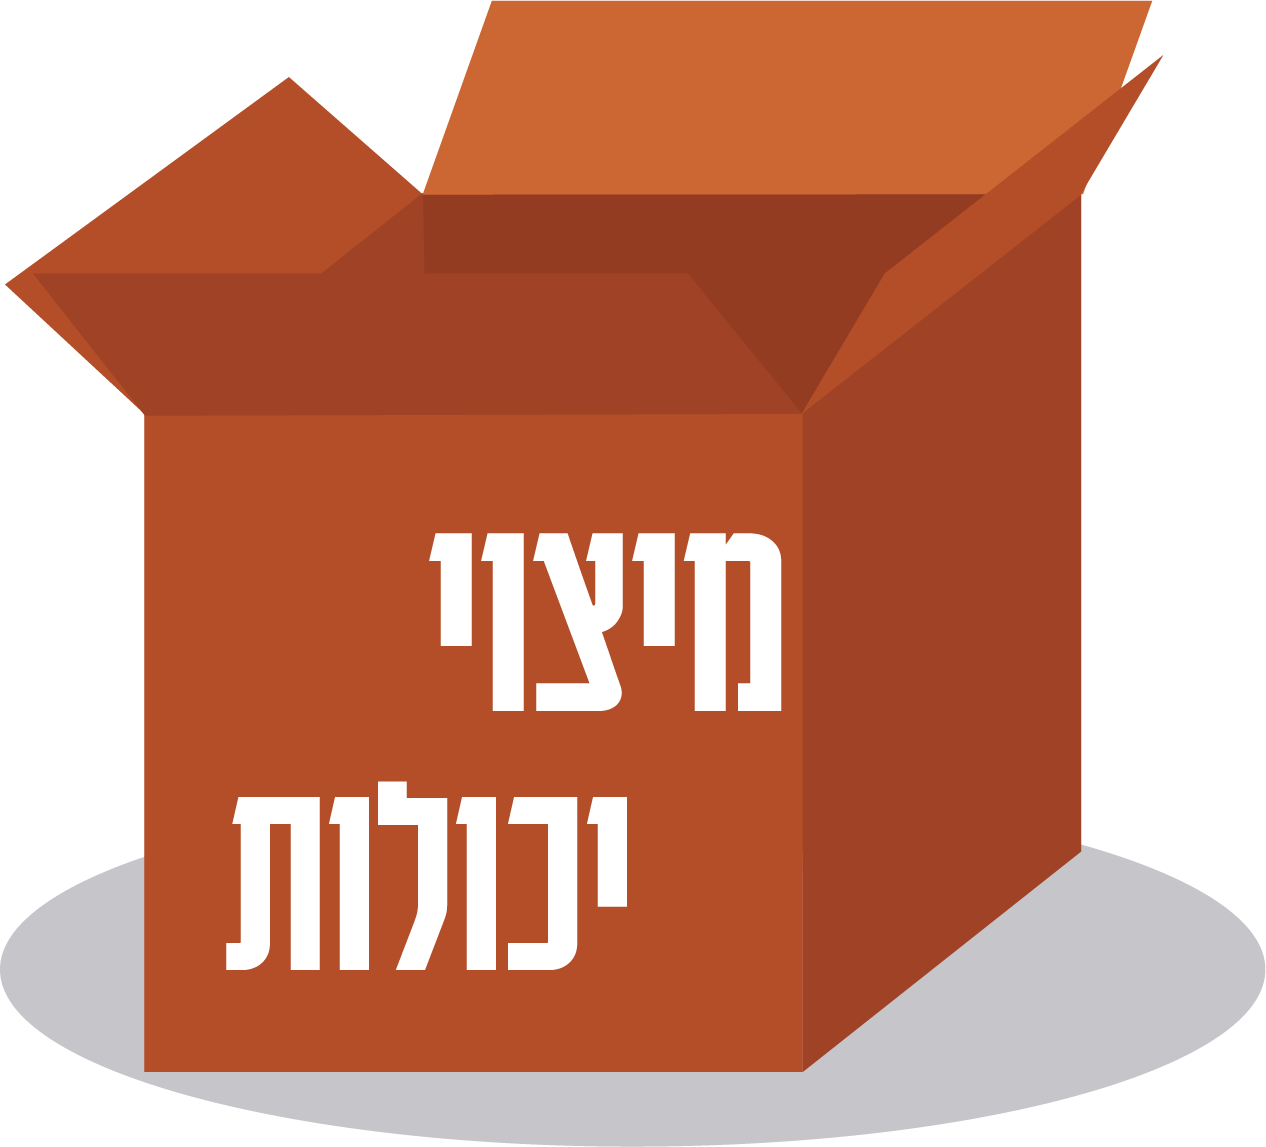
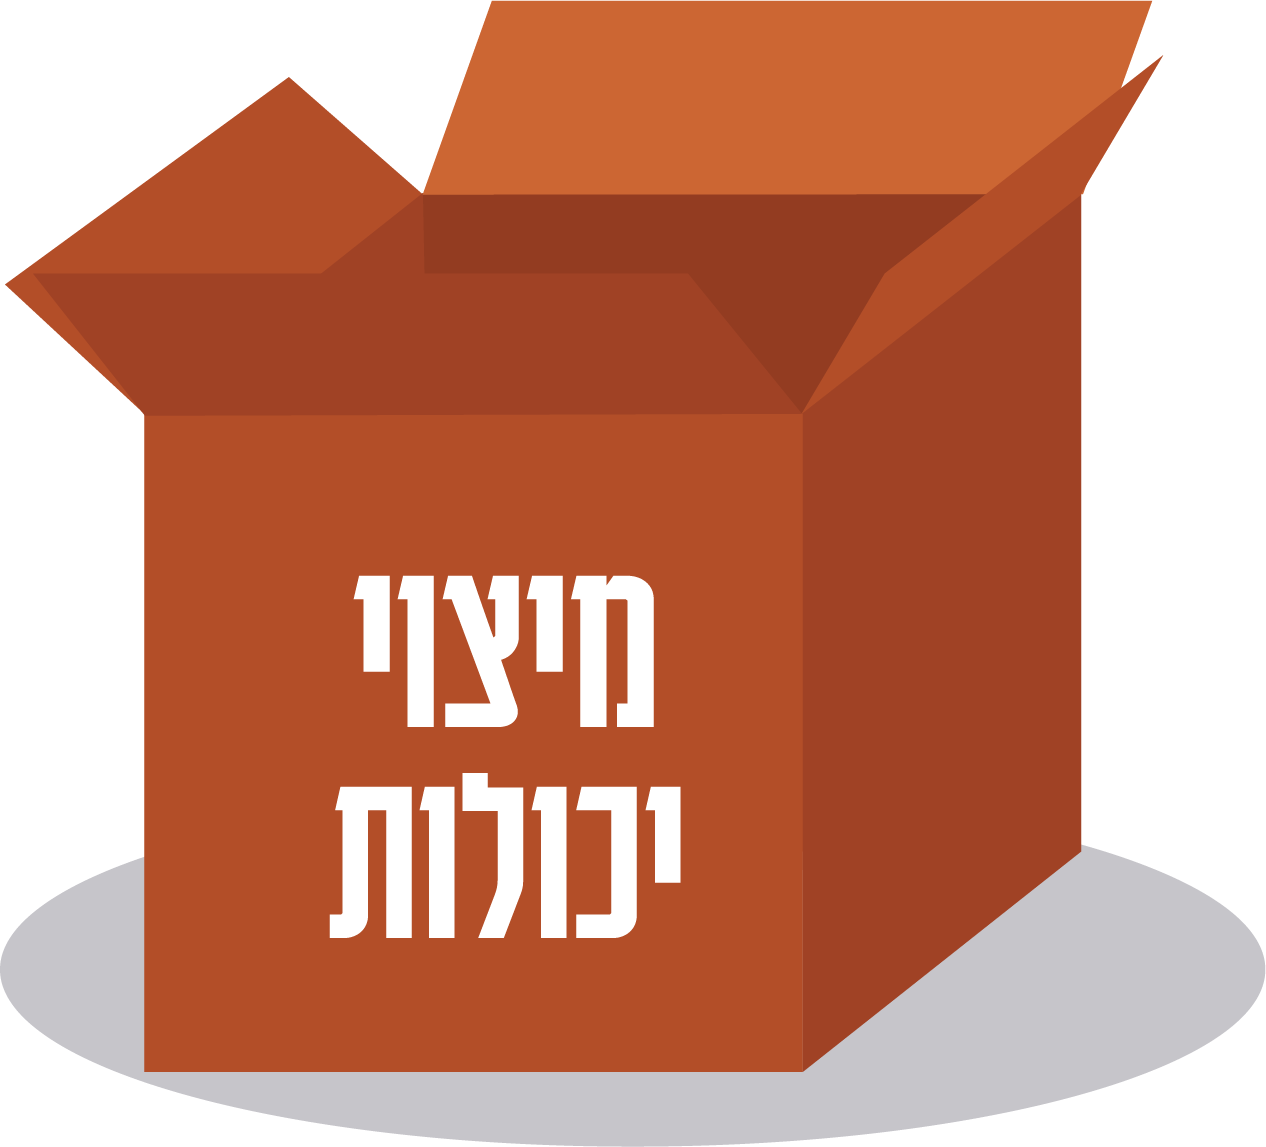
שינוי קופסאות+ קישור

Changed region(s): [[0.154, 0.6713, 0.5545, 0.8544], [0.2773, 0.4577, 0.6161, 0.6408]]

diff --git a/src/componentsCss/Home.css b/src/componentsCss/Home.css
@@ -13,7 +13,7 @@
     }
 
     .title {
-       position: absolute;
+        position: absolute;
         right: 50%;
         transform: translateX(50%);
         font-family: 'Karantina';
@@ -51,7 +51,7 @@
 
     .boxContainer {
         margin-bottom: 6vh;
-    margin-left: 2vw;
+        margin-left: 2vw;
     }
 
     .boxClose {
@@ -59,9 +59,10 @@
         height: auto;
     }
 
-      .boxOpen{
-     width: 36vw;
+    .boxOpen {
+        width: 40vw;
         height: auto;
+        margin-top: -2vh;
     }
 
     .flexBox-boxes img:nth-child(1),
@@ -79,25 +80,10 @@
         position: absolute;
         right: 50%;
         transform: translateX(50%);
-        margin-top: 113vh;
+        margin-top: 118vh;
         height: auto;
-        width: 88vw;
+        width: 80vw;
     }
-
-  
-
-    .SboxText {
-        right: 50%;
-        transform: translateX(50%);
-        margin-top: 125.3vh;
-        margin-right: 2vh;
-        font-family: 'Karantina';
-        position: absolute;
-        color: white;
-        font-size: 9vw;
-        text-align: center;
-    }
-
 
     .marginBottom {
         position: absolute;
@@ -165,15 +151,16 @@
     }
 
     .boxClose {
-        width: 15vw;
+        width: 14vw;
         height: auto;
         cursor: pointer;
     }
 
-     .boxOpen{
-     width: 13vw;
+    .boxOpen {
+        width: 13vw;
         height: auto;
-                cursor: pointer;
+        cursor: pointer;
+        margin-top: -2vh;
 
     }
 
@@ -185,22 +172,9 @@
         position: absolute;
         right: 50%;
         transform: translateX(50%);
-        margin-top: 70vh;
+        margin-top: 76vh;
         height: auto;
-        width: 28vw;
-        cursor: pointer;
-    }
-
-    .SboxText {
-        right: 50%;
-        transform: translateX(50%);
-        margin-top: 82vh;
-        margin-right: 2vh;
-        font-family: 'Karantina';
-        position: absolute;
-        color: white;
-        font-size: 3vw;
-        text-align: center;
+        width: 25vw;
         cursor: pointer;
     }
 

diff --git a/src/componentsCss/PopUp.css b/src/componentsCss/PopUp.css
@@ -1,6 +1,6 @@
 /* Mobile */
 @media screen and (max-width: 768px) {
-.popup-overlay {
+  .popup-overlay {
     background: #000000b3;
     height: 100vh;
     left: 0;
@@ -9,9 +9,9 @@
     width: 100vw;
     z-index: 2000;
   }
-  
+
   .popup-content {
-    background:#e2d4c8;
+    background: #e2d4c8;
     border-radius: 12vw;
     height: 74vh;
     overflow-y: auto;
@@ -22,7 +22,7 @@
     width: 80vw;
     overflow: hidden;
   }
-  
+
   .XBtn {
     position: absolute;
     top: 5vw;
@@ -31,24 +31,24 @@
     border: none;
     width: 8vw;
   }
-  
+
   .popup-close-button {
     border: none;
     background-color: transparent;
   }
-  
+
   .popup-title {
     font-family: 'Karantina';
     font-weight: normal;
     color: black;
     font-size: 15vw;
-    margin-bottom: 7vw;
-    margin-top: 1vw;
+    margin-bottom: 3vw;
+    margin-top: 8vw;
     margin-left: 4vw;
     margin-right: 4vw;
     text-align: center;
   }
-  
+
   .popup-body {
     font-size: 4.5vw;
     direction: ltr;
@@ -59,10 +59,10 @@
     margin-bottom: 1vh;
     overflow: auto;
     width: 74.5vw;
-    color: #5d5b5b;
+    color: #4f4e4e;
     line-height: 4vh;
   }
-  
+
   .popup-body-text {
     direction: rtl;
   }
@@ -82,7 +82,7 @@
   }
 
   .popup-content {
-    background:#e2d4c8;
+    background: #e2d4c8;
     border-radius: 12vw;
     height: 74vh;
     overflow-y: auto;
@@ -132,17 +132,17 @@
   }
 
   .popup-body {
-         font-size: 1.5vw;
-        direction: ltr;
-        margin-right: 10.5vh;
-        text-align: right;
-        margin-left: 0.5vh;
-        height: 40vh;
-        margin-bottom: 1vh;
-        overflow: auto;
-        width: 53.5vw;
-        font-family: 'Assistant';
-        line-height: 5vh;
+    font-size: 1.5vw;
+    direction: ltr;
+    margin-right: 10.5vh;
+    text-align: right;
+    margin-left: 0.5vh;
+    height: 40vh;
+    margin-bottom: 1vh;
+    overflow: auto;
+    width: 53.5vw;
+    font-family: 'Assistant';
+    line-height: 5vh;
   }
 
   .popup-body-text {

diff --git a/src/componentsJs/Simulation.js b/src/componentsJs/Simulation.js
@@ -67,7 +67,7 @@ const handleStart = () => {
 
                         <div className='form-Simulation'>
                             <div className="form-row">
-                                <label className="form-label">כתוב את שמך:</label>
+                                <label className="form-label">  מה שמך?</label>
                                 <input
                                     type="text"
                                     className="form-input"
@@ -78,7 +78,7 @@ const handleStart = () => {
                             </div>
 
                             <div className="form-row">
-                                <label className="form-label">הכנס/י את שם הרשות עליה את/ה משוייכ/ת:</label>
+                                <label className="form-label">מה הרשות שלך?</label>
                                 <select
                                     className="form-select"
                                     value={municipality}

diff --git a/src/componentsJs/IntroText.js b/src/componentsJs/IntroText.js
@@ -43,7 +43,7 @@ function IntroText() {
                         <div className='mashov-home'>
                             <div className='mashovText'>
                                 <br /> יש הערות על הממשק? יש מחמאות? מלאו את השאלון וצרו איתנו קשר
-                                <br /> <a id='linkHome' href="https://docs.google.com/forms/d/e/1FAIpQLSeAunPlSFfKmqyZhnCQkf8jsxTPsLjr8-vKES_V3UDqqDSFoA/viewform?usp=sf_link" target="_blank" rel="noopener noreferrer">
+                                <br /> <a id='linkHome' href="https://forms.gle/EZPKDWebUQoBL93M9" target="_blank" rel="noopener noreferrer">
                                     בקישור הבא
                                 </a>
                             </div>

diff --git a/src/componentsJs/Header.js b/src/componentsJs/Header.js
@@ -30,13 +30,11 @@ function Header() {
             />
 
             {/* המשולש */}
-            {(!isMobile && location.pathname === '/home') || isMobile ? (
                 <img
                     src={process.env.PUBLIC_URL + '/assests/imgs/orangeTriangle.png'}
                     alt="orangeTriangle"
                     className="orangeTriangle"
                 />
-            ) : null}
 
             {/* Navbar / Hamburger */}
             {location.pathname !== '/IntroText' && (

diff --git a/src/componentsCss/IntroText.css b/src/componentsCss/IntroText.css
@@ -120,7 +120,7 @@
         font-size: 4vw;
         color: #50565c;
         text-align: center;
-        margin-top: 2vh;
+        margin-top: 25vh;
         width: 67vw;
     }
 
@@ -139,7 +139,7 @@
         position: absolute;
         right: 50%;
         transform: translateX(50%);
-        margin-top: 100vh;
+        margin-top: 83vh;
         width: 59vw;
         height: 6vh;
         padding: 2vh;

diff --git a/src/data/TextData.js b/src/data/TextData.js
@@ -47,7 +47,7 @@ const TextData = [
         content: 'כלל היקלרים השכנים סייעו אך עדיין יש צורך בכוח אדם ואמצעים. מה תעשה?',
         answers:
             [
-                'חסר',
+                'נפנה למחוז באופן ישיר',
                 'אעלה בקשה במערכת המרס"ל'
             ],
         correctAnswer: 0,

diff --git a/src/componentsJs/Hamburger.js b/src/componentsJs/Hamburger.js
@@ -119,7 +119,7 @@ const Hamburger = () => {
             <br />
             <a
               id="linkMenu"
-              href="https://docs.google.com/forms/d/e/1FAIpQLSeAunPlSFfKmqyZhnCQkf8jsxTPsLjr8-vKES_V3UDqqDSFoA/viewform?usp=sf_link"
+              href="https://forms.gle/EZPKDWebUQoBL93M9"
               target="_blank"
               rel="noopener noreferrer"
             >

diff --git a/src/componentsJs/Home.js b/src/componentsJs/Home.js
@@ -112,9 +112,7 @@ function Home() {
                     className="SboxClose"
                     alt="Sbox"
                 />
-                <span className="SboxText">
-                    סימולציה
-                </span>
+              
             </div>
 
             <div className='marginBottom'></div>

diff --git a/src/componentsCss/Cards.css b/src/componentsCss/Cards.css
@@ -384,12 +384,12 @@
 
     .video-container {
         position: absolute;
-        bottom: 13vh;
+        bottom: 15vh;
     }
 
     .video-player {
         width: 100%;
-        max-width: 788px;
+        max-width: 700px;
         border-radius: 10px;
         box-shadow: 0 4px 8px rgba(0, 0, 0, 0.2);
     }

diff --git a/src/componentsCss/Header.css b/src/componentsCss/Header.css
@@ -45,9 +45,9 @@
         z-index: 100;
         background-color: #f2e5dd;
     }
-
     .collegeLogoText {
-        height: 8vmin;
+        max-width: 12vw;
+        height: auto;
         position: absolute;
         top: 10px;
         right: 15px;

diff --git a/src/componentsCss/Hamburger.css b/src/componentsCss/Hamburger.css
@@ -111,11 +111,12 @@
 }
 
 .whiteLogoHam {
-    height: 16vh;
+    height: 13vh;
     width: auto;
     position: absolute;
     transform: translateX(50%);
     right: 50%;
+    top: 5vh;
 }
 
 .mashov-menu{
